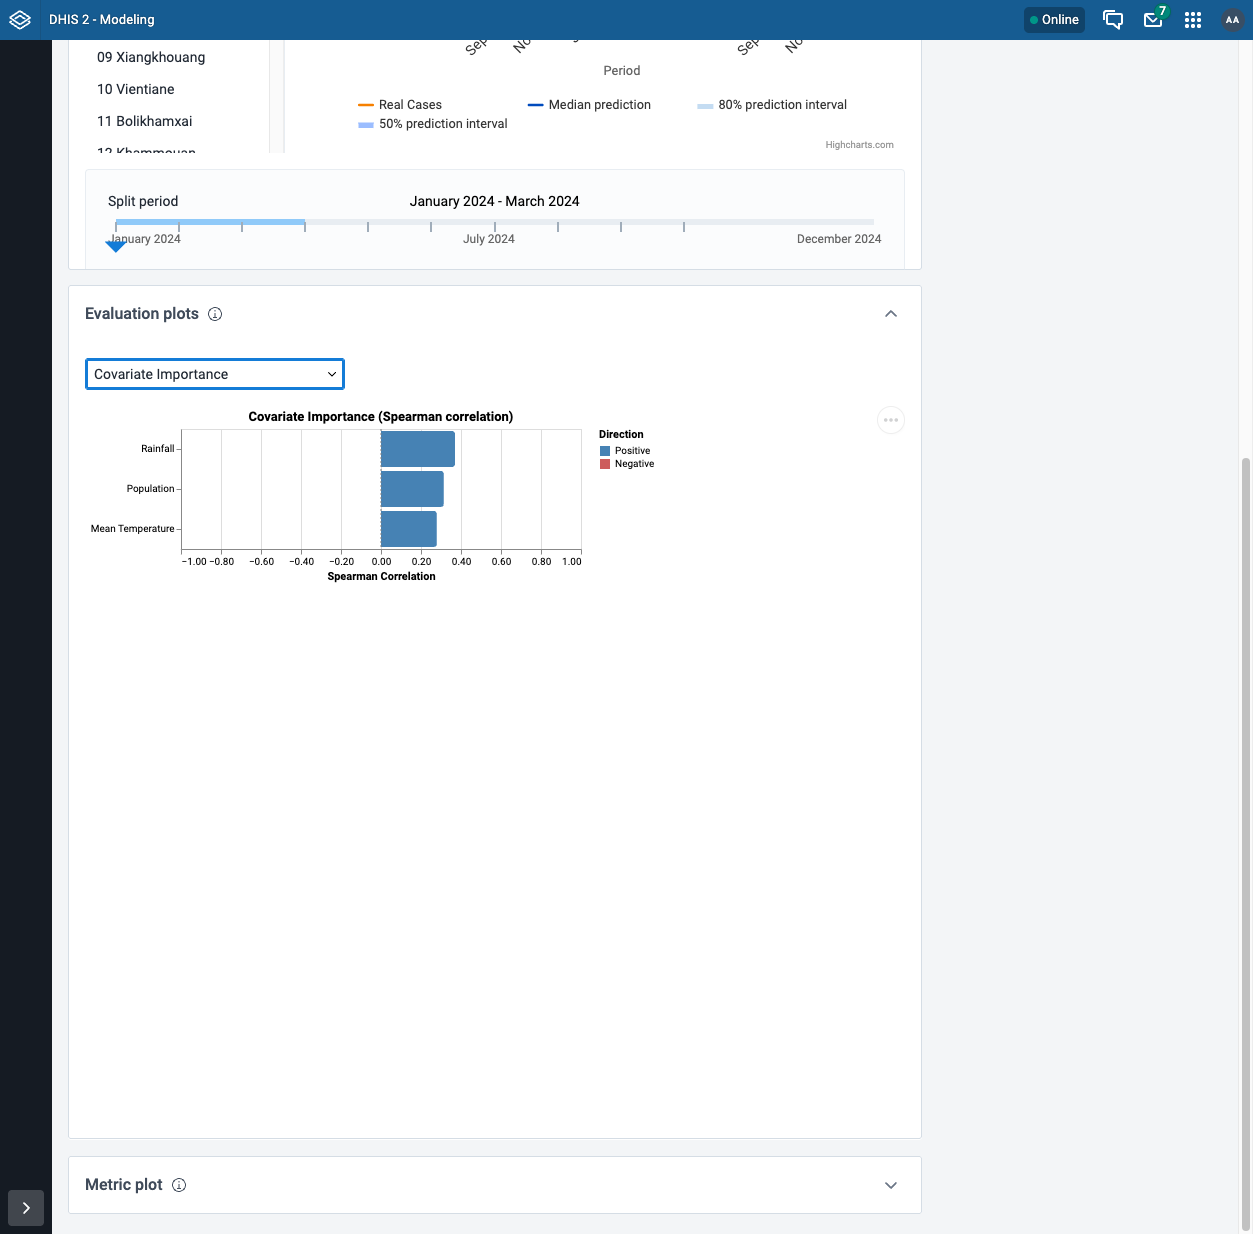
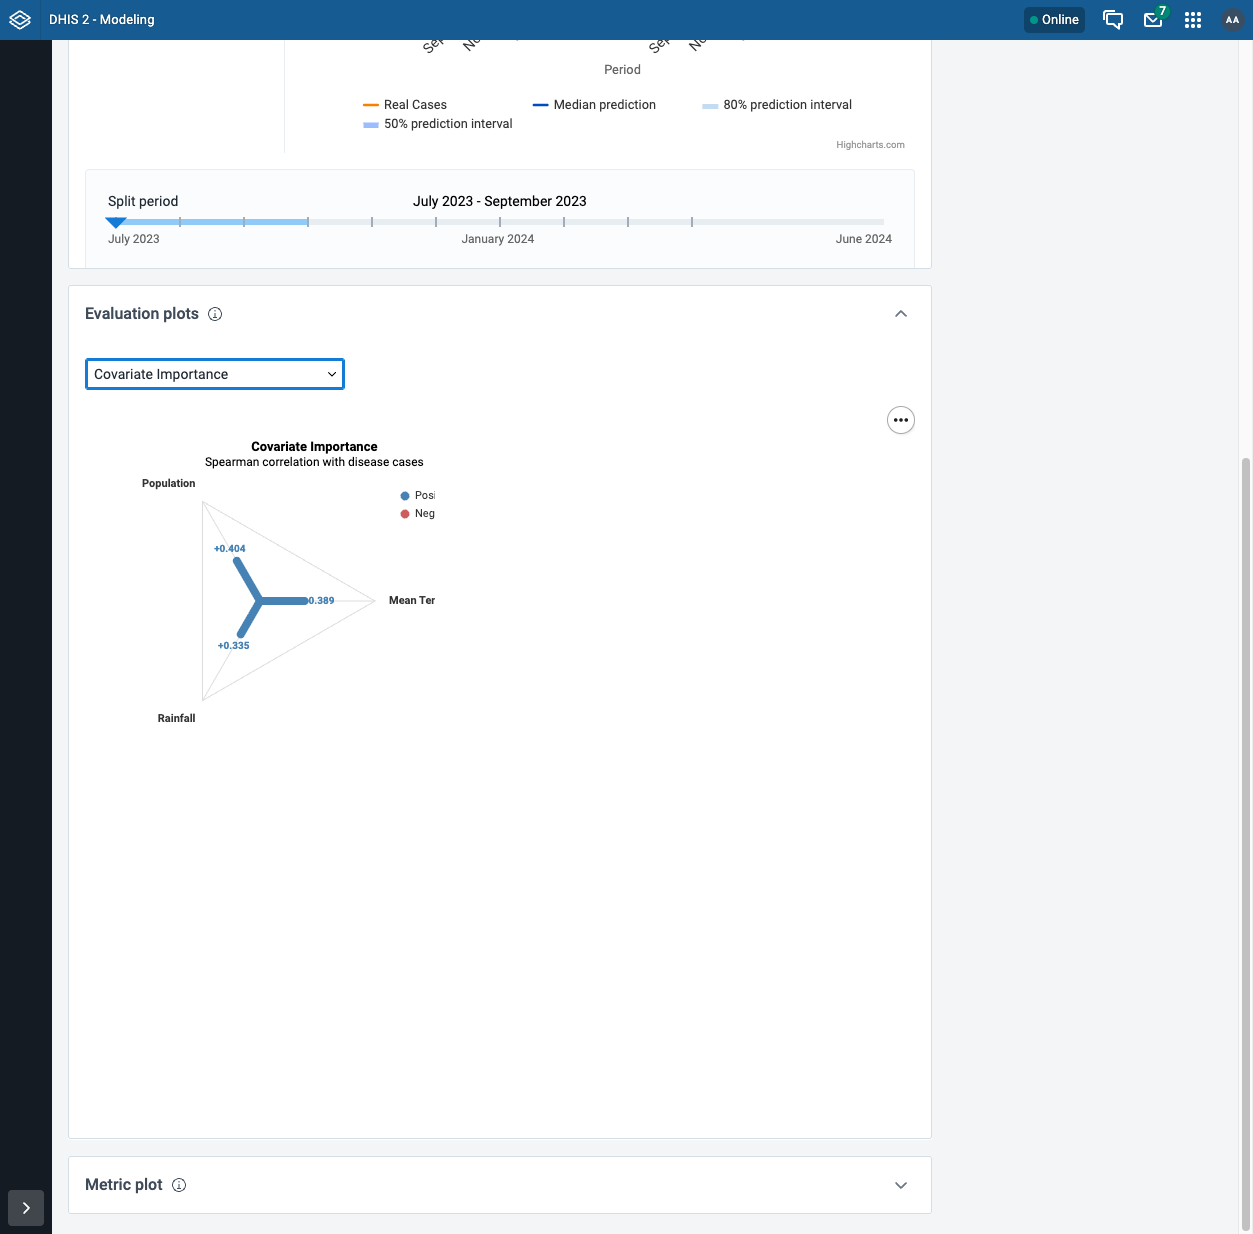
fix: address review findings for CLIM-538 plots
1. Pass covariates param in create_plot_from_evaluation (was missing)
2. Preserve signed Spearman correlations on radar chart with blue/red
   color coding instead of stripping sign with abs()
3. Handle .html output for raw Vega specs in CLI save_chart
4. Remove per-location coloring from linear scatter plot to avoid
   legend overflow, use single color matching reference design
5. Add legend to radar chart, fix title/subtitle clipping

diff --git a/chap_core/assessment/backtest_plots/covariate_importance_plot.py b/chap_core/assessment/backtest_plots/covariate_importance_plot.py
@@ -1,9 +1,10 @@
 """
 Covariate importance radar chart using Spearman correlation.
 
-Shows a radar (spider) chart of absolute Spearman rank correlations between
+Shows a radar (spider) chart of signed Spearman rank correlations between
 each covariate and the target variable (disease_cases). Each axis represents
-a covariate, and the radial distance shows correlation strength (0-1).
+a covariate. Positive correlations are shown in blue, negative in red.
+The radial distance shows correlation magnitude (0-1), centered at zero.
 
 Uses a raw Vega spec since Altair/Vega-Lite do not support radial layouts.
 
@@ -45,24 +46,36 @@ def _empty_chart(message: str) -> PlotResult:
 def _build_radar_spec(corr_df: pd.DataFrame) -> dict:
     """Build a Vega radar chart spec from a correlation DataFrame.
 
+    Each covariate is rendered as a spoke. The radial distance represents
+    the absolute correlation magnitude. Positive correlations are blue,
+    negative are red - matching the reference design.
+
     Parameters
     ----------
     corr_df : pd.DataFrame
-        Must have columns: covariate (str), abs_correlation (float 0-1)
+        Must have columns: covariate (str), correlation (float -1..1)
     """
-    table_values = [{"key": row["covariate"], "value": row["abs_correlation"]} for _, row in corr_df.iterrows()]
+    table_values = [
+        {
+            "key": row["covariate"],
+            "value": abs(row["correlation"]),
+            "signed": row["correlation"],
+        }
+        for _, row in corr_df.iterrows()
+    ]
 
     return {
         "$schema": "https://vega.github.io/schema/vega/v5.json",
-        "description": "Covariate importance radar chart (Spearman |r|)",
+        "description": "Covariate importance radar chart (signed Spearman r)",
         "width": 350,
         "height": 350,
-        "padding": 60,
+        "padding": {"top": 80, "left": 60, "right": 60, "bottom": 60},
         "autosize": {"type": "none", "contains": "padding"},
         "title": {
             "text": "Covariate Importance",
-            "subtitle": "Absolute Spearman correlation with disease cases",
+            "subtitle": "Spearman correlation with disease cases",
             "anchor": "middle",
+            "offset": 10,
         },
         "signals": [{"name": "radius", "update": "width / 2"}],
         "data": [
@@ -97,55 +110,6 @@ def _build_radar_spec(corr_df: pd.DataFrame) -> dict:
             }
         },
         "marks": [
-            # Filled radar polygon
-            {
-                "type": "line",
-                "name": "radar-line",
-                "from": {"data": "table"},
-                "encode": {
-                    "enter": {
-                        "interpolate": {"value": "linear-closed"},
-                        "x": {"signal": "scale('radial', datum.value) * cos(scale('angular', datum.key))"},
-                        "y": {"signal": "scale('radial', datum.value) * sin(scale('angular', datum.key))"},
-                        "stroke": {"value": "steelblue"},
-                        "strokeWidth": {"value": 2},
-                        "fill": {"value": "steelblue"},
-                        "fillOpacity": {"value": 0.15},
-                    }
-                },
-            },
-            # Data point dots
-            {
-                "type": "symbol",
-                "from": {"data": "table"},
-                "encode": {
-                    "enter": {
-                        "x": {"signal": "scale('radial', datum.value) * cos(scale('angular', datum.key))"},
-                        "y": {"signal": "scale('radial', datum.value) * sin(scale('angular', datum.key))"},
-                        "fill": {"value": "steelblue"},
-                        "size": {"value": 40},
-                        "tooltip": {
-                            "signal": "{'Covariate': datum.key, 'Correlation |r|': format(datum.value, '.3f')}"
-                        },
-                    }
-                },
-            },
-            # Value labels on each point
-            {
-                "type": "text",
-                "from": {"data": "table"},
-                "encode": {
-                    "enter": {
-                        "x": {"signal": "(scale('radial', datum.value) + 12) * cos(scale('angular', datum.key))"},
-                        "y": {"signal": "(scale('radial', datum.value) + 12) * sin(scale('angular', datum.key))"},
-                        "text": {"signal": "format(datum.value, '.2f')"},
-                        "align": {"value": "center"},
-                        "baseline": {"value": "middle"},
-                        "fontSize": {"value": 10},
-                        "fill": {"value": "#333"},
-                    }
-                },
-            },
             # Radial grid lines (spokes)
             {
                 "type": "rule",
@@ -160,6 +124,72 @@ def _build_radar_spec(corr_df: pd.DataFrame) -> dict:
                         "y2": {"signal": "radius * sin(scale('angular', datum.key))"},
                         "stroke": {"value": "#ddd"},
                         "strokeWidth": {"value": 1},
+                    }
+                },
+            },
+            # Outer boundary polygon
+            {
+                "type": "line",
+                "name": "outer-line",
+                "from": {"data": "radial-grid"},
+                "encode": {
+                    "enter": {
+                        "interpolate": {"value": "linear-closed"},
+                        "x": {"field": "x2"},
+                        "y": {"field": "y2"},
+                        "stroke": {"value": "#ddd"},
+                        "strokeWidth": {"value": 1},
+                    }
+                },
+            },
+            # Individual wedge bars per covariate (blue positive, red negative)
+            {
+                "type": "rule",
+                "from": {"data": "table"},
+                "zindex": 1,
+                "encode": {
+                    "enter": {
+                        "x": {"value": 0},
+                        "y": {"value": 0},
+                        "x2": {"signal": "scale('radial', datum.value) * cos(scale('angular', datum.key))"},
+                        "y2": {"signal": "scale('radial', datum.value) * sin(scale('angular', datum.key))"},
+                        "stroke": {"signal": "datum.signed >= 0 ? 'steelblue' : 'indianred'"},
+                        "strokeWidth": {"value": 8},
+                        "strokeCap": {"value": "round"},
+                        "tooltip": {"signal": "{'Covariate': datum.key, 'Spearman r': format(datum.signed, '+.3f')}"},
+                    }
+                },
+            },
+            # Data point dots at the end of each spoke
+            {
+                "type": "symbol",
+                "from": {"data": "table"},
+                "zindex": 2,
+                "encode": {
+                    "enter": {
+                        "x": {"signal": "scale('radial', datum.value) * cos(scale('angular', datum.key))"},
+                        "y": {"signal": "scale('radial', datum.value) * sin(scale('angular', datum.key))"},
+                        "fill": {"signal": "datum.signed >= 0 ? 'steelblue' : 'indianred'"},
+                        "size": {"value": 50},
+                        "tooltip": {"signal": "{'Covariate': datum.key, 'Spearman r': format(datum.signed, '+.3f')}"},
+                    }
+                },
+            },
+            # Signed value labels
+            {
+                "type": "text",
+                "from": {"data": "table"},
+                "zindex": 2,
+                "encode": {
+                    "enter": {
+                        "x": {"signal": "(scale('radial', datum.value) + 14) * cos(scale('angular', datum.key))"},
+                        "y": {"signal": "(scale('radial', datum.value) + 14) * sin(scale('angular', datum.key))"},
+                        "text": {"signal": "format(datum.signed, '+.3f')"},
+                        "align": {"value": "center"},
+                        "baseline": {"value": "middle"},
+                        "fontSize": {"value": 10},
+                        "fill": {"signal": "datum.signed >= 0 ? 'steelblue' : 'indianred'"},
+                        "fontWeight": {"value": "bold"},
                     }
                 },
             },
@@ -195,18 +225,57 @@ def _build_radar_spec(corr_df: pd.DataFrame) -> dict:
                     }
                 },
             },
-            # Outer boundary polygon
+            # Legend: positive indicator
             {
-                "type": "line",
-                "name": "outer-line",
-                "from": {"data": "radial-grid"},
+                "type": "symbol",
                 "encode": {
                     "enter": {
-                        "interpolate": {"value": "linear-closed"},
-                        "x": {"field": "x2"},
-                        "y": {"field": "y2"},
-                        "stroke": {"value": "#ddd"},
-                        "strokeWidth": {"value": 1},
+                        "x": {"signal": "radius + 30"},
+                        "y": {"signal": "-radius + 10"},
+                        "shape": {"value": "circle"},
+                        "fill": {"value": "steelblue"},
+                        "size": {"value": 80},
+                    }
+                },
+            },
+            {
+                "type": "text",
+                "encode": {
+                    "enter": {
+                        "x": {"signal": "radius + 40"},
+                        "y": {"signal": "-radius + 10"},
+                        "text": {"value": "Positive"},
+                        "align": {"value": "left"},
+                        "baseline": {"value": "middle"},
+                        "fontSize": {"value": 11},
+                        "fill": {"value": "#333"},
+                    }
+                },
+            },
+            # Legend: negative indicator
+            {
+                "type": "symbol",
+                "encode": {
+                    "enter": {
+                        "x": {"signal": "radius + 30"},
+                        "y": {"signal": "-radius + 28"},
+                        "shape": {"value": "circle"},
+                        "fill": {"value": "indianred"},
+                        "size": {"value": 80},
+                    }
+                },
+            },
+            {
+                "type": "text",
+                "encode": {
+                    "enter": {
+                        "x": {"signal": "radius + 40"},
+                        "y": {"signal": "-radius + 28"},
+                        "text": {"value": "Negative"},
+                        "align": {"value": "left"},
+                        "baseline": {"value": "middle"},
+                        "fontSize": {"value": 11},
+                        "fill": {"value": "#333"},
                     }
                 },
             },
@@ -218,8 +287,8 @@ def _build_radar_spec(corr_df: pd.DataFrame) -> dict:
     plot_id="covariate_importance",
     name="Covariate Importance",
     description=(
-        "Radar chart showing absolute Spearman correlation between each covariate "
-        "and disease cases. Larger area = stronger overall covariate signal."
+        "Radar chart showing Spearman correlation between each covariate "
+        "and disease cases. Blue = positive, red = negative."
     ),
     needs_covariates=True,
 )
@@ -249,7 +318,7 @@ class CovariateImportancePlot(BacktestPlotBase):
                 correlations.append(
                     {
                         "covariate": col.replace("_", " ").title(),
-                        "abs_correlation": abs(corr_value),
+                        "correlation": corr_value,
                     }
                 )
 
@@ -257,6 +326,6 @@ class CovariateImportancePlot(BacktestPlotBase):
             return _empty_chart("Insufficient data to compute correlations")
 
         corr_df = pd.DataFrame(correlations)
-        corr_df = corr_df.sort_values("abs_correlation", ascending=False).reset_index(drop=True)
+        corr_df = corr_df.sort_values("correlation", key=abs, ascending=False).reset_index(drop=True)
 
         return _build_radar_spec(corr_df)

diff --git a/chap_core/cli_endpoints/utils.py b/chap_core/cli_endpoints/utils.py
@@ -13,6 +13,20 @@ import yaml
 from cyclopts import Parameter
 
 from chap_core.assessment.dataset_splitting import train_test_generator
+
+
+def _save_vega_html(spec: dict, output_path: Path) -> None:
+    """Save a raw Vega spec as a self-contained HTML file."""
+    html = f"""<!DOCTYPE html>
+<html><head>
+<script src="https://cdn.jsdelivr.net/npm/vega@5"></script>
+</head><body>
+<div id="vis"></div>
+<script>vegaEmbed = undefined; new vega.View(vega.parse({json.dumps(spec)}), {{renderer: 'canvas'}}).initialize('#vis').run();</script>
+</body></html>"""
+    output_path.write_text(html)
+
+
 from chap_core.database.model_templates_and_config_tables import ModelConfiguration
 from chap_core.datatypes import FullData
 from chap_core.file_io.example_data_set import datasets
@@ -160,8 +174,11 @@ def plot_backtest(
     logger.info(f"Saving plot to {output_file}")
     if isinstance(chart, dict):
         # Raw Vega spec (e.g. radar charts)
-        with open(output_path, "w") as f:
-            json.dump(chart, f, indent=2)
+        if suffix == ".html":
+            _save_vega_html(chart, output_path)
+        else:
+            with open(output_path, "w") as f:
+                json.dump(chart, f, indent=2)
     elif suffix == ".html" or suffix in (".png", ".svg", ".pdf"):
         chart.save(str(output_path))
     elif suffix == ".json":

diff --git a/chap_core/assessment/backtest_plots/predicted_vs_actual_linear_plot.py b/chap_core/assessment/backtest_plots/predicted_vs_actual_linear_plot.py
@@ -37,10 +37,9 @@ class PredictedVsActualLinearPlot(BacktestPlotBase):
 
         base = alt.Chart(merged)
 
-        scatter = base.mark_circle(size=50, opacity=0.6).encode(
+        scatter = base.mark_circle(size=50, opacity=0.6, color="steelblue").encode(
             x=alt.X("disease_cases:Q", title="Actual", scale=alt.Scale(domain=[0, axis_max])),
             y=alt.Y("median_forecast:Q", title="Predicted", scale=alt.Scale(domain=[0, axis_max])),
-            color=alt.Color("location:N", title="Location"),
             tooltip=[
                 alt.Tooltip("location:N"),
                 alt.Tooltip("time_period:N"),
@@ -62,7 +61,7 @@ class PredictedVsActualLinearPlot(BacktestPlotBase):
         )
 
         chart = alt.layer(scatter, regression_line, identity_line).properties(
-            width=350, height=350, title="Predicted vs Actual"
+            width=500, height=400, title="Predicted vs Actual"
         )
 
         return chart  # type: ignore[no-any-return]

diff --git a/chap_core/assessment/backtest_plots/__init__.py b/chap_core/assessment/backtest_plots/__init__.py
@@ -336,9 +336,13 @@ def create_plot_from_evaluation(plot_id: str, evaluation) -> PlotResult:
     if plot_cls.needs_historical and flat_data.historical_observations is not None:
         historical_df = flat_data.historical_observations  # type: ignore[assignment]
 
+    # Note: covariates are not available from Evaluation files (only from BackTest
+    # objects that have a dataset with observations). Pass None here.
+    covariates_df: pd.DataFrame | None = None
+
     # Create plot instance and generate chart
     plotter = plot_cls()
-    return plotter.plot(observations_df, forecasts_df, historical_df)
+    return plotter.plot(observations_df, forecasts_df, historical_df, covariates_df)
 
 
 # Import plot modules to trigger registration
